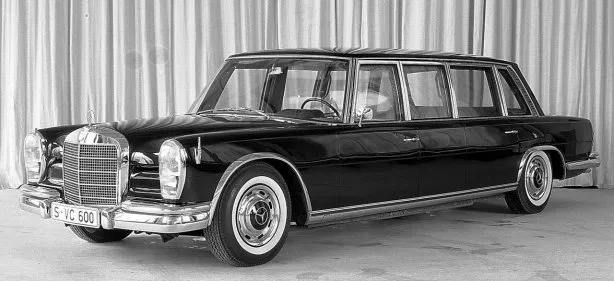
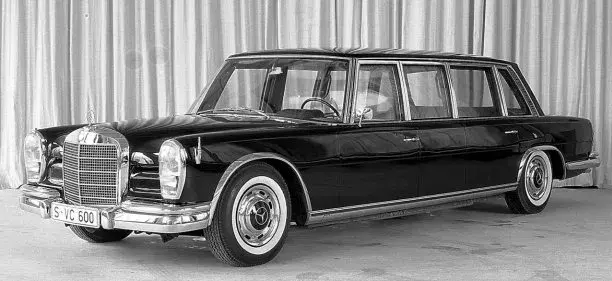
246

diff --git a/pic/ja_mb_img_l.html b/pic/ja_mb_img_l.html
@@ -419,7 +419,7 @@
 						<a href="full/l/w100_1r.jpg"><img loading="lazy" src="style/l/w100_1r.webp" alt="メルセデス,Typ 600,w100,リヤ" width="640" height="424"></a><br>
 						<a href="full/l/w100_1d.jpg"><img loading="lazy" src="style/l/w100_1d.webp" alt="メルセデス,Typ 600,w100,ダッシュボード" width="1210" height="907"></a>
 						<h5>Pullman-Limousine</h5>
-						<a href="full/l/w100_2f.jpg"><img loading="lazy" src="style/l/w100_2f.webp" alt="メルセデス,Typ 600,w100,フロント" width="614" height="281"></a>
+						<a href="full/l/w100_2f.jpg"><img loading="lazy" src="style/l/w100_2f.webp" alt="メルセデス,Typ 600,w100,フロント" width="612" height="281"></a>
 						<a href="full/l/w100_2r.jpg"><img loading="lazy" src="style/l/w100_2r.webp" alt="メルセデス,Typ 600,w100,リヤ" width="593" height="281"></a><br>
 						<a href="full/l/w100_2i.jpg"><img loading="lazy" src="style/l/w100_2i.webp" alt="メルセデス,Typ 600,w100,内装" width="1210" height="908"></a>
 						<h5>ボディサイズ</h5>

diff --git a/pic/mb_img_l.html b/pic/mb_img_l.html
@@ -419,7 +419,7 @@
 						<a href="full/l/w100_1r.jpg"><img loading="lazy" src="style/l/w100_1r.webp" alt="Mercedes,Typ 600,w100,Rückansicht" width="640" height="424"></a><br>
 						<a href="full/l/w100_1d.jpg"><img loading="lazy" src="style/l/w100_1d.webp" alt="Mercedes,Typ 600,w100,Instrumententafel" width="1210" height="907"></a>
 						<h5>Pullman-Limousine</h5>
-						<a href="full/l/w100_2f.jpg"><img loading="lazy" src="style/l/w100_2f.webp" alt="Mercedes,Typ 600,w100,Frontansicht" width="614" height="281"></a>
+						<a href="full/l/w100_2f.jpg"><img loading="lazy" src="style/l/w100_2f.webp" alt="Mercedes,Typ 600,w100,Frontansicht" width="612" height="281"></a>
 						<a href="full/l/w100_2r.jpg"><img loading="lazy" src="style/l/w100_2r.webp" alt="Mercedes,Typ 600,w100,Rückansicht" width="593" height="281"></a><br>
 						<a href="full/l/w100_2i.jpg"><img loading="lazy" src="style/l/w100_2i.webp" alt="Mercedes,Typ 600,w100,Innenansicht" width="1210" height="908"></a>
 						<h5>Abmessungen</h5>

diff --git a/pic/en_mb_img_l.html b/pic/en_mb_img_l.html
@@ -419,7 +419,7 @@
 						<a href="full/l/w100_1r.jpg"><img loading="lazy" src="style/l/w100_1r.webp" alt="Mercedes,Typ 600,w100,Rear view" width="640" height="424"></a><br>
 						<a href="full/l/w100_1d.jpg"><img loading="lazy" src="style/l/w100_1d.webp" alt="Mercedes,Typ 600,w100,Dashboard" width="1210" height="907"></a>
 						<h5>Pullman-Limousine</h5>
-						<a href="full/l/w100_2f.jpg"><img loading="lazy" src="style/l/w100_2f.webp" alt="Mercedes,Typ 600,w100,Front view" width="614" height="281"></a>
+						<a href="full/l/w100_2f.jpg"><img loading="lazy" src="style/l/w100_2f.webp" alt="Mercedes,Typ 600,w100,Front view" width="612" height="281"></a>
 						<a href="full/l/w100_2r.jpg"><img loading="lazy" src="style/l/w100_2r.webp" alt="Mercedes,Typ 600,w100,Rear view" width="593" height="281"></a><br>
 						<a href="full/l/w100_2i.jpg"><img loading="lazy" src="style/l/w100_2i.webp" alt="Mercedes,Typ 600,w100,Interior" width="1210" height="908"></a>
 						<h5>Dimensions</h5>
